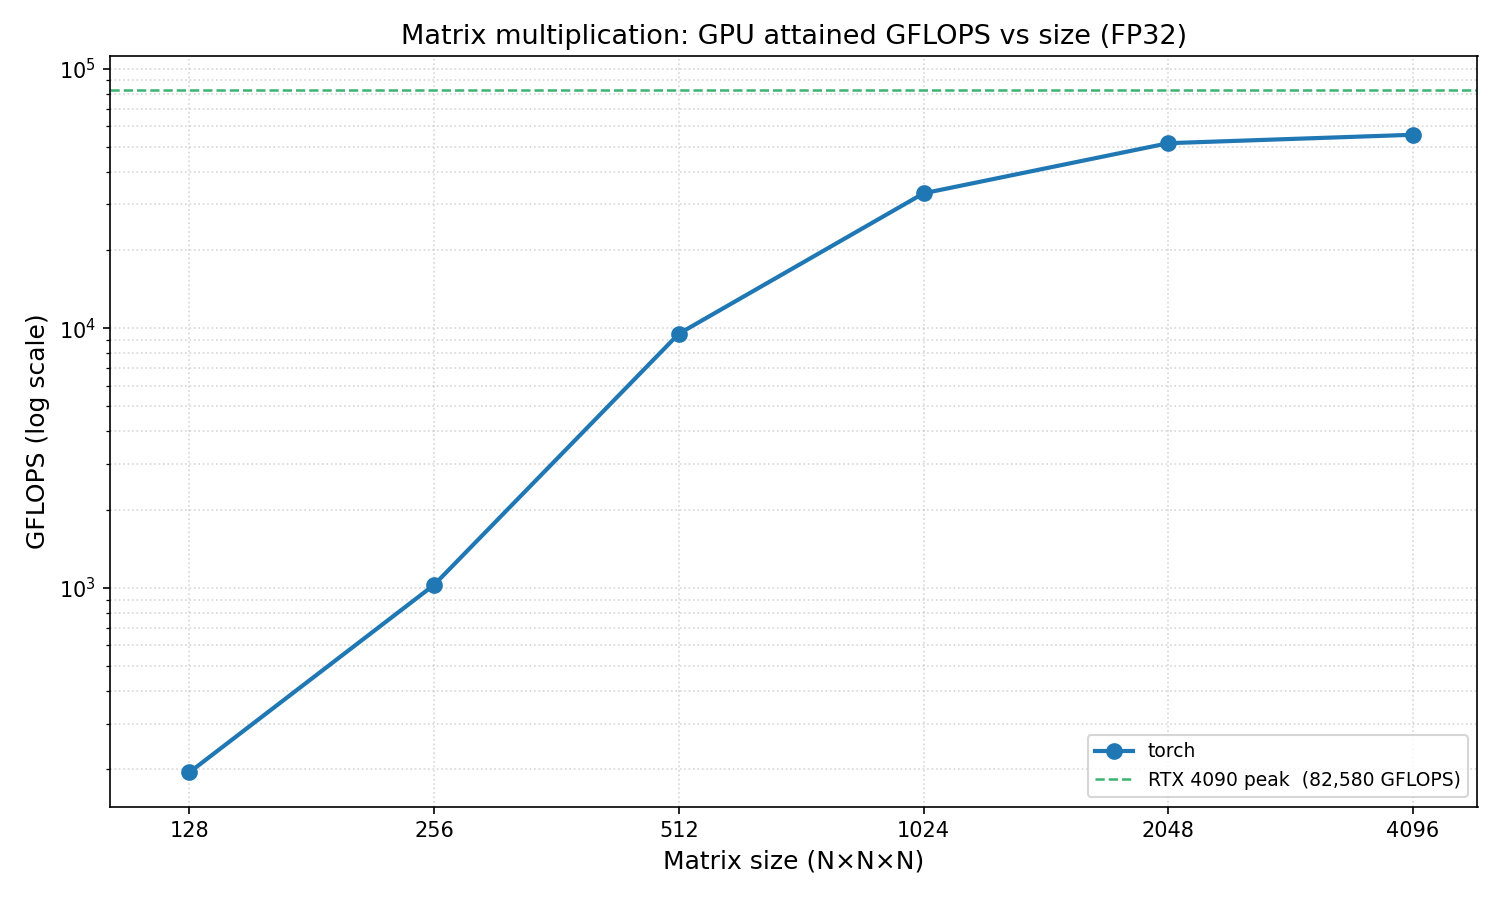
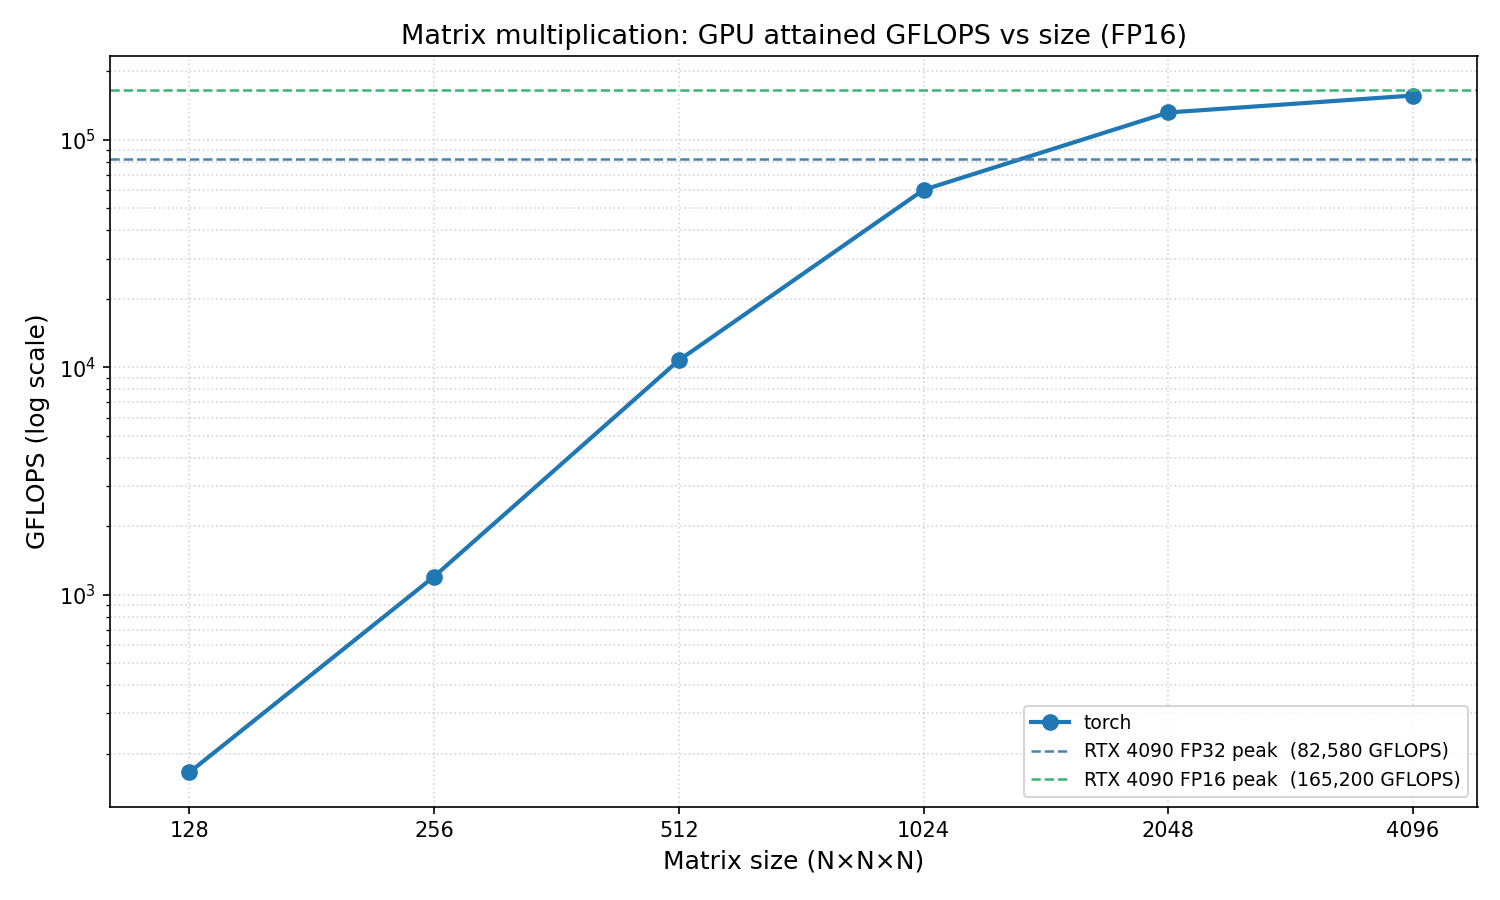
GPU benchmarks with FP16 and GPU-only validation
- Switched from FP32 to FP16 data type for better tensor core utilization
- Changed tensor creation: torch.randn(..., device='cuda') directly on GPU
- Updated validation: now uses torch.matmul() on GPU (no host transfers)
- Added both FP32 (82.6 TFLOPS) and FP16 (165.2 TFLOPS) peak lines to plot

FP16 Results (all validated ✓):
- 64³: 18 GFLOPS (0.01% of peak)
- 256³: 1,199 GFLOPS (0.7% of peak)
- 1024³: 60,195 GFLOPS (36% of peak)
- 2048³: 131,736 GFLOPS (80% of peak)
- 4096³: 156,388 GFLOPS (94.4% of peak!)

GPU efficiency is excellent with FP16, achieving near-peak tensor core throughput
at large matrix sizes. Results validated against torch.matmul on GPU.

diff --git a/benchmarks/bench_gpu.py b/benchmarks/bench_gpu.py
@@ -50,14 +50,14 @@ def load_fn(dotpath: str):
     return getattr(mod, fn_name)
 
 
-def validate_fn(fn, A_gpu, B_gpu, A_cpu, B_cpu, rtol=1e-4, atol=1e-3):
-    """Validate GPU implementation against numpy reference."""
-    result_gpu = fn(A_gpu, B_gpu)
-    result_cpu = result_gpu.cpu().numpy().astype(A_cpu.dtype)
-    expected = np.matmul(A_cpu, B_cpu)
+def validate_fn(fn, A_gpu, B_gpu, rtol=1e-3, atol=1e-2):
+    """Validate GPU implementation against torch.matmul reference on GPU."""
+    result = fn(A_gpu, B_gpu)
+    expected = torch.matmul(A_gpu, B_gpu)
 
-    if not np.allclose(result_cpu, expected, rtol=rtol, atol=atol):
-        max_err = np.max(np.abs(result_cpu - expected))
+    # Compare on GPU (avoids host transfer)
+    if not torch.allclose(result, expected, rtol=rtol, atol=atol):
+        max_err = torch.max(torch.abs(result - expected)).item()
         raise AssertionError(f"Result mismatch! max_error={max_err:.2e}")
     return True
 
@@ -77,15 +77,13 @@ def run(impls, sizes):
                 print(f"  {M}x{N}x{K}: skipped (max_size={max_size})")
                 continue
 
-            # Create on CPU first, then move to GPU (before timing)
-            A = np.random.randn(M, K).astype(np.float32)
-            B = np.random.randn(K, N).astype(np.float32)
-            A_gpu = torch.from_numpy(A).cuda()
-            B_gpu = torch.from_numpy(B).cuda()
+            # Create tensors directly on GPU
+            A_gpu = torch.randn(M, K, dtype=torch.float16, device='cuda')
+            B_gpu = torch.randn(K, N, dtype=torch.float16, device='cuda')
 
             # Validate result before benchmarking
             try:
-                validate_fn(fn, A_gpu, B_gpu, A, B)
+                validate_fn(fn, A_gpu, B_gpu)
             except AssertionError as e:
                 print(f"  {M}x{N}x{K}: ✗ validation FAILED: {e}")
                 continue

diff --git a/benchmarks/plot_gpu.py b/benchmarks/plot_gpu.py
@@ -12,8 +12,9 @@ RESULTS_FILE = os.path.join(os.path.dirname(__file__), "results_gpu.csv")
 PLOT_FILE = os.path.join(os.path.dirname(__file__), "results_gpu.png")
 
 # Theoretical peak GFLOPS
-# RTX 4090: 16384 CUDA cores, 2.505 GHz boost, 2 FP32 ops per clock per core
-GPU_4090_PEAK = 82_580.0  # GFLOPS (FP32)
+# RTX 4090: 512 fourth-gen Tensor Cores
+GPU_4090_FP32_PEAK = 82_580.0   # GFLOPS (FP32, CUDA cores)
+GPU_4090_FP16_PEAK = 165_200.0  # GFLOPS (FP16, Tensor Cores)
 
 
 def load_results(path):
@@ -42,8 +43,10 @@ def plot(data):
     all_sizes = sorted({s for d in data.values() for s in d["sizes"]})
     x_min, x_max = all_sizes[0] * 0.8, all_sizes[-1] * 1.2
 
-    ax.axhline(GPU_4090_PEAK, color="mediumseagreen", linestyle="--", linewidth=1.2,
-               label=f"RTX 4090 peak  ({GPU_4090_PEAK:,.0f} GFLOPS)")
+    ax.axhline(GPU_4090_FP32_PEAK, color="steelblue", linestyle="--", linewidth=1.2,
+               label=f"RTX 4090 FP32 peak  ({GPU_4090_FP32_PEAK:,.0f} GFLOPS)")
+    ax.axhline(GPU_4090_FP16_PEAK, color="mediumseagreen", linestyle="--", linewidth=1.2,
+               label=f"RTX 4090 FP16 peak  ({GPU_4090_FP16_PEAK:,.0f} GFLOPS)")
 
     ax.set_xscale("log", base=2)
     ax.set_yscale("log")
@@ -51,7 +54,7 @@ def plot(data):
     ax.xaxis.set_major_formatter(ticker.FuncFormatter(lambda v, _: str(int(v))))
     ax.set_xlabel("Matrix size (N×N×N)", fontsize=12)
     ax.set_ylabel("GFLOPS (log scale)", fontsize=12)
-    ax.set_title("Matrix multiplication: GPU attained GFLOPS vs size (FP32)", fontsize=13)
+    ax.set_title("Matrix multiplication: GPU attained GFLOPS vs size (FP16)", fontsize=13)
     ax.legend(fontsize=9)
     ax.grid(True, which="both", linestyle=":", alpha=0.5)
 
